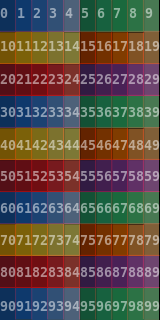
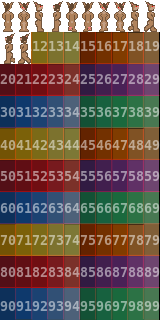
Will I ever realistically use commit messages for this repo?

Changed region(s): [[0.0, 0.0, 1.0, 0.2188]]

diff --git a/games/walker/actor.js b/games/walker/actor.js
@@ -9,10 +9,10 @@ Actor.ANIMATIONS = {
   SOUTH_STAND: [1, 1],
   EAST_STAND: [2, 2],
   WEST_STAND: [3, 3],
-  NORTH_MOVE: [10, 16],
-  EAST_MOVE: [17, 23],
-  SOUTH_MOVE: [24, 30],
-  WEST_MOVE: [31, 37]
+  NORTH_MOVE: [4, 5],
+  SOUTH_MOVE: [6, 7],
+  EAST_MOVE: [8, 9],
+  WEST_MOVE: [10, 11]
 };
 
 Actor.EVENTS = {
@@ -111,7 +111,7 @@ Actor.new = function(){
     size: 50,
     speed: 5
   };
-  var spriteSheet = GRAPHICS.loadImage("https://raw.githubusercontent.com/blukatdevelopment/neocities/main/games/walker/player.png");
+  var spriteSheet = GRAPHICS.loadImage("file:///home/blukat/localdev/neocities/games/walker/player.png");//"https://raw.githubusercontent.com/blukatdevelopment/neocities/main/games/walker/player.png");
   wkr.spriteManager = SPRITES.Manager.new(
     spriteSheet, // sheet
     16, // width

diff --git a/ttrpg.html b/ttrpg.html
@@ -27,7 +27,7 @@
 
       <div>
         <h1>Unchained Worlds: Pocket Edition</h1>
-        <a href="https://raw.githubusercontent.com/blukatdevelopment/UnchainedWorlds/main/pocket_edition/player_handbook/core_rules_color_digital.png">Click here to view UW:PE</a>
+        <a href="https://raw.githubusercontent.com/blukatdevelopment/UnchainedWorlds/main/player_handbook/core_rules_color_digital.png">Click here to view UW:PE</a>
         <p>This is a free system that can be used in a stand-alone fashion, or can be expanded into more advanced systems. As a standalone, the intent is for open-ended character customization to allow for a mechanically minimal representation of original characters in a TTRPG.</p>
       </div>
 
